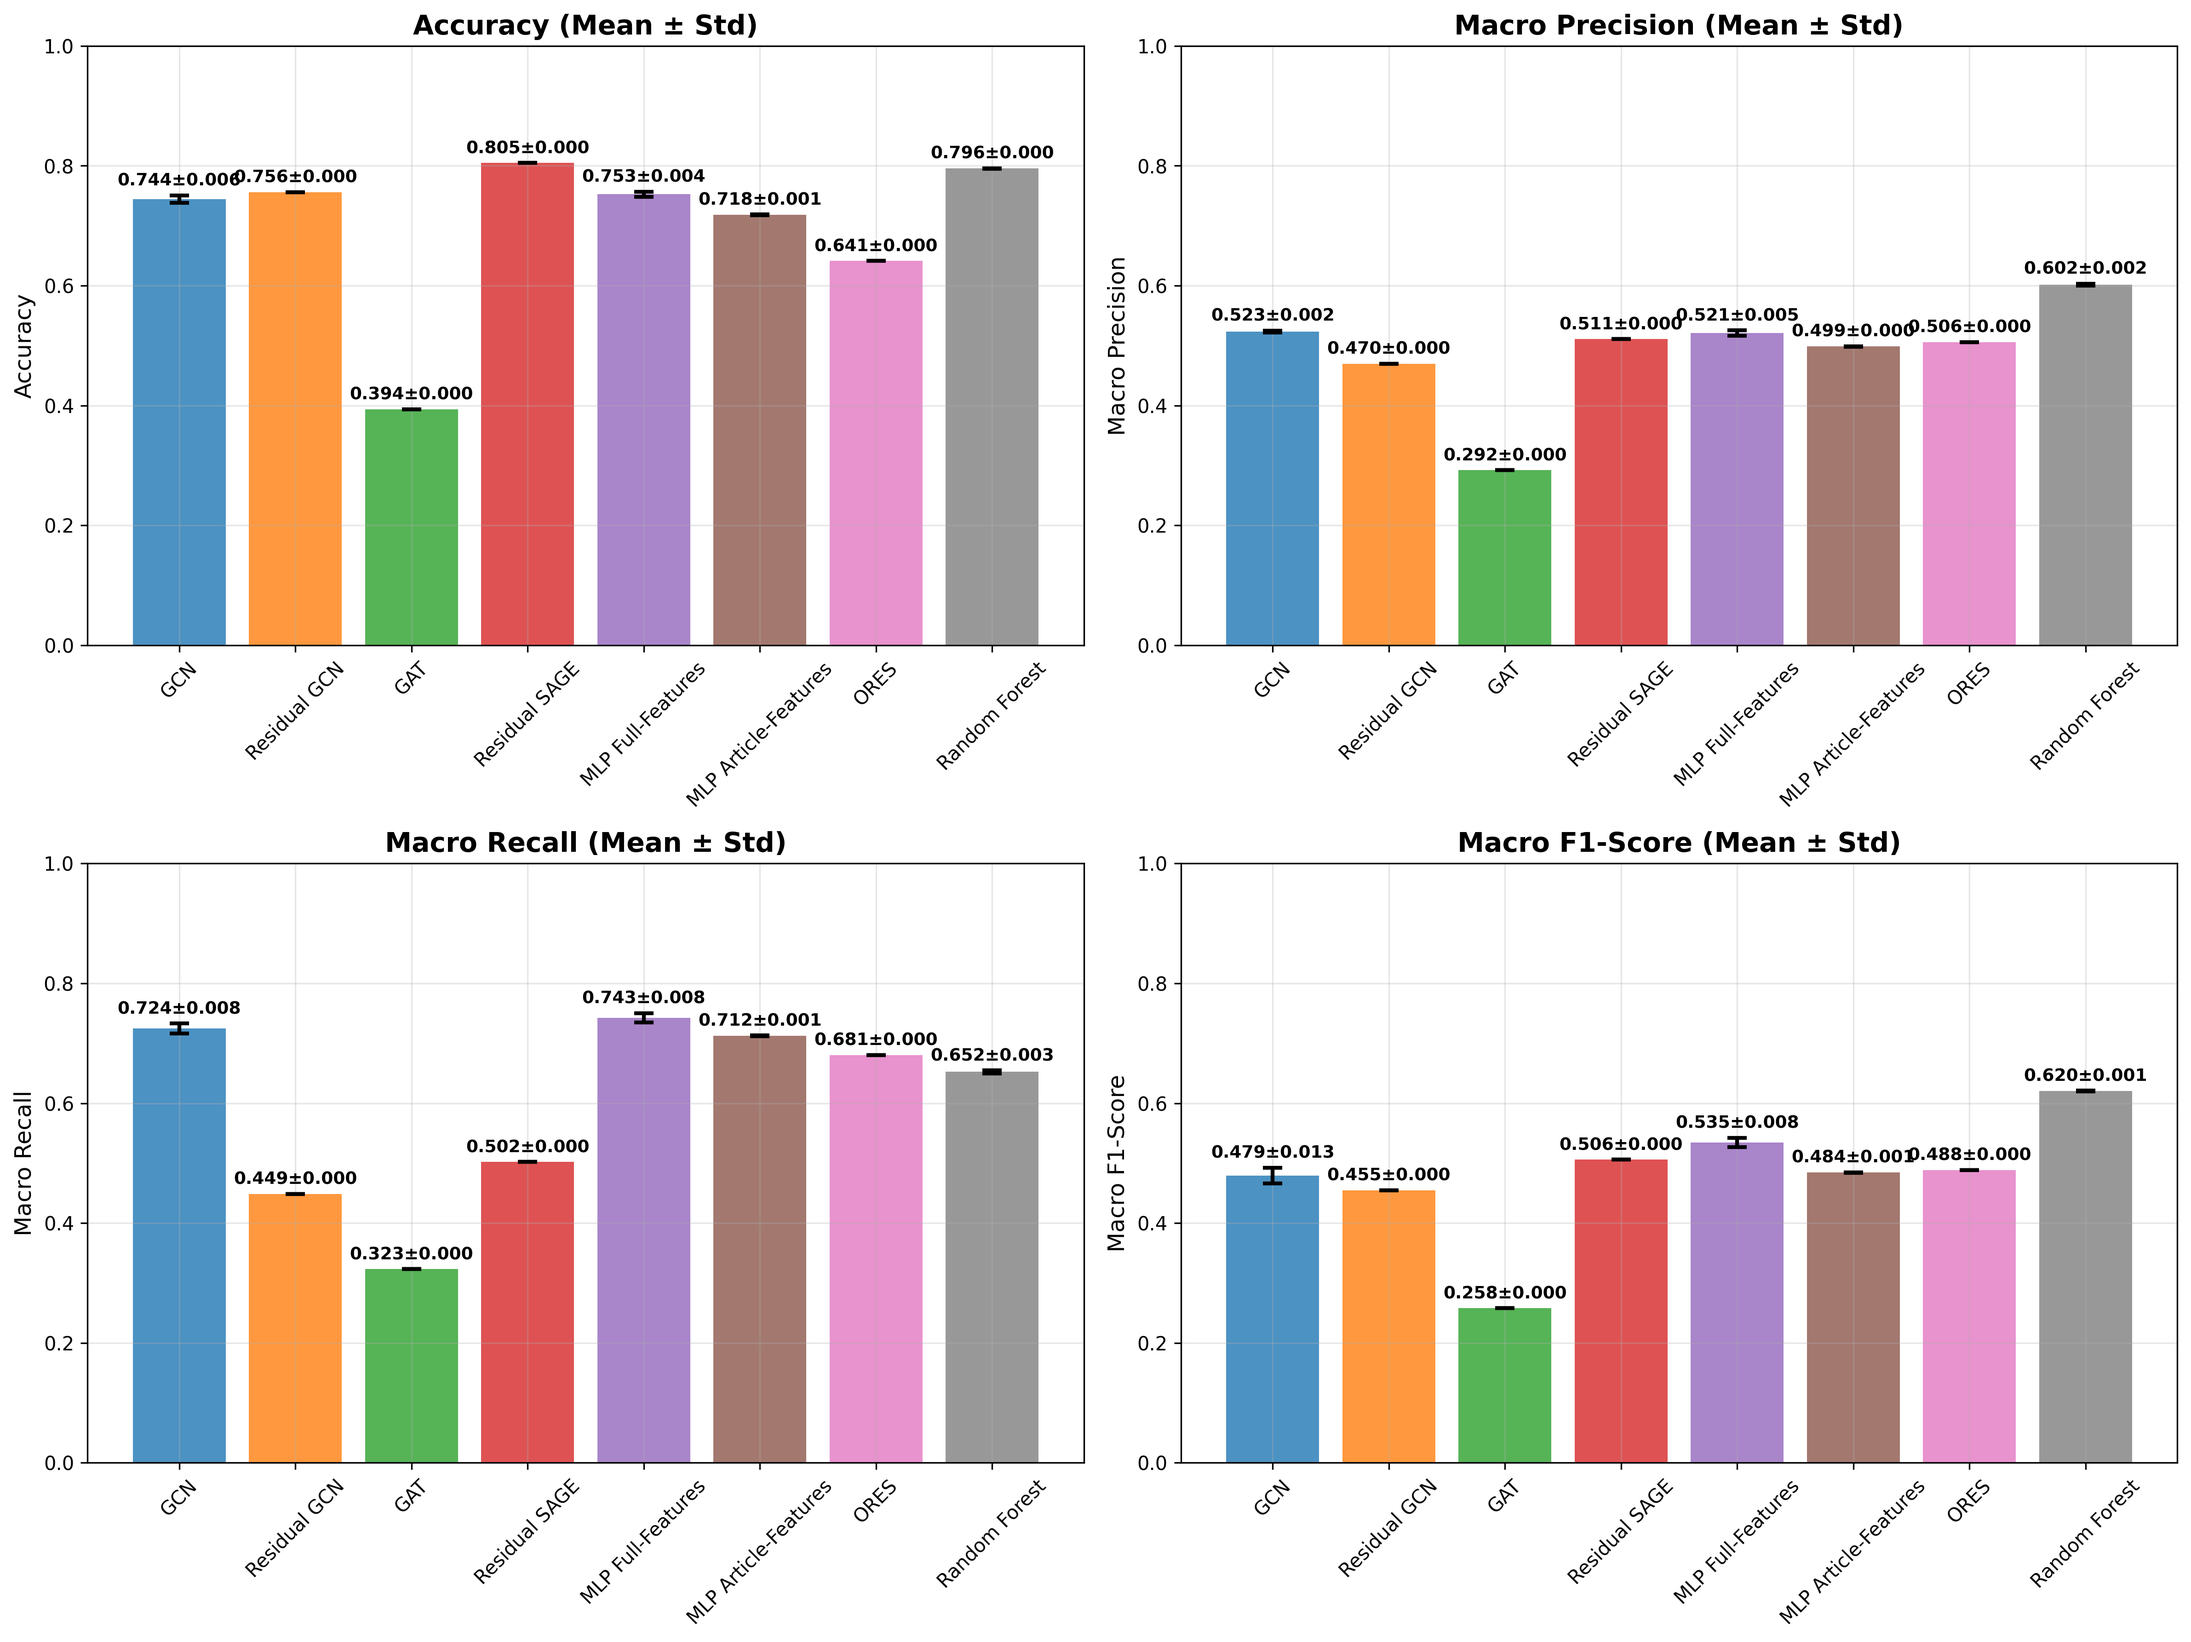
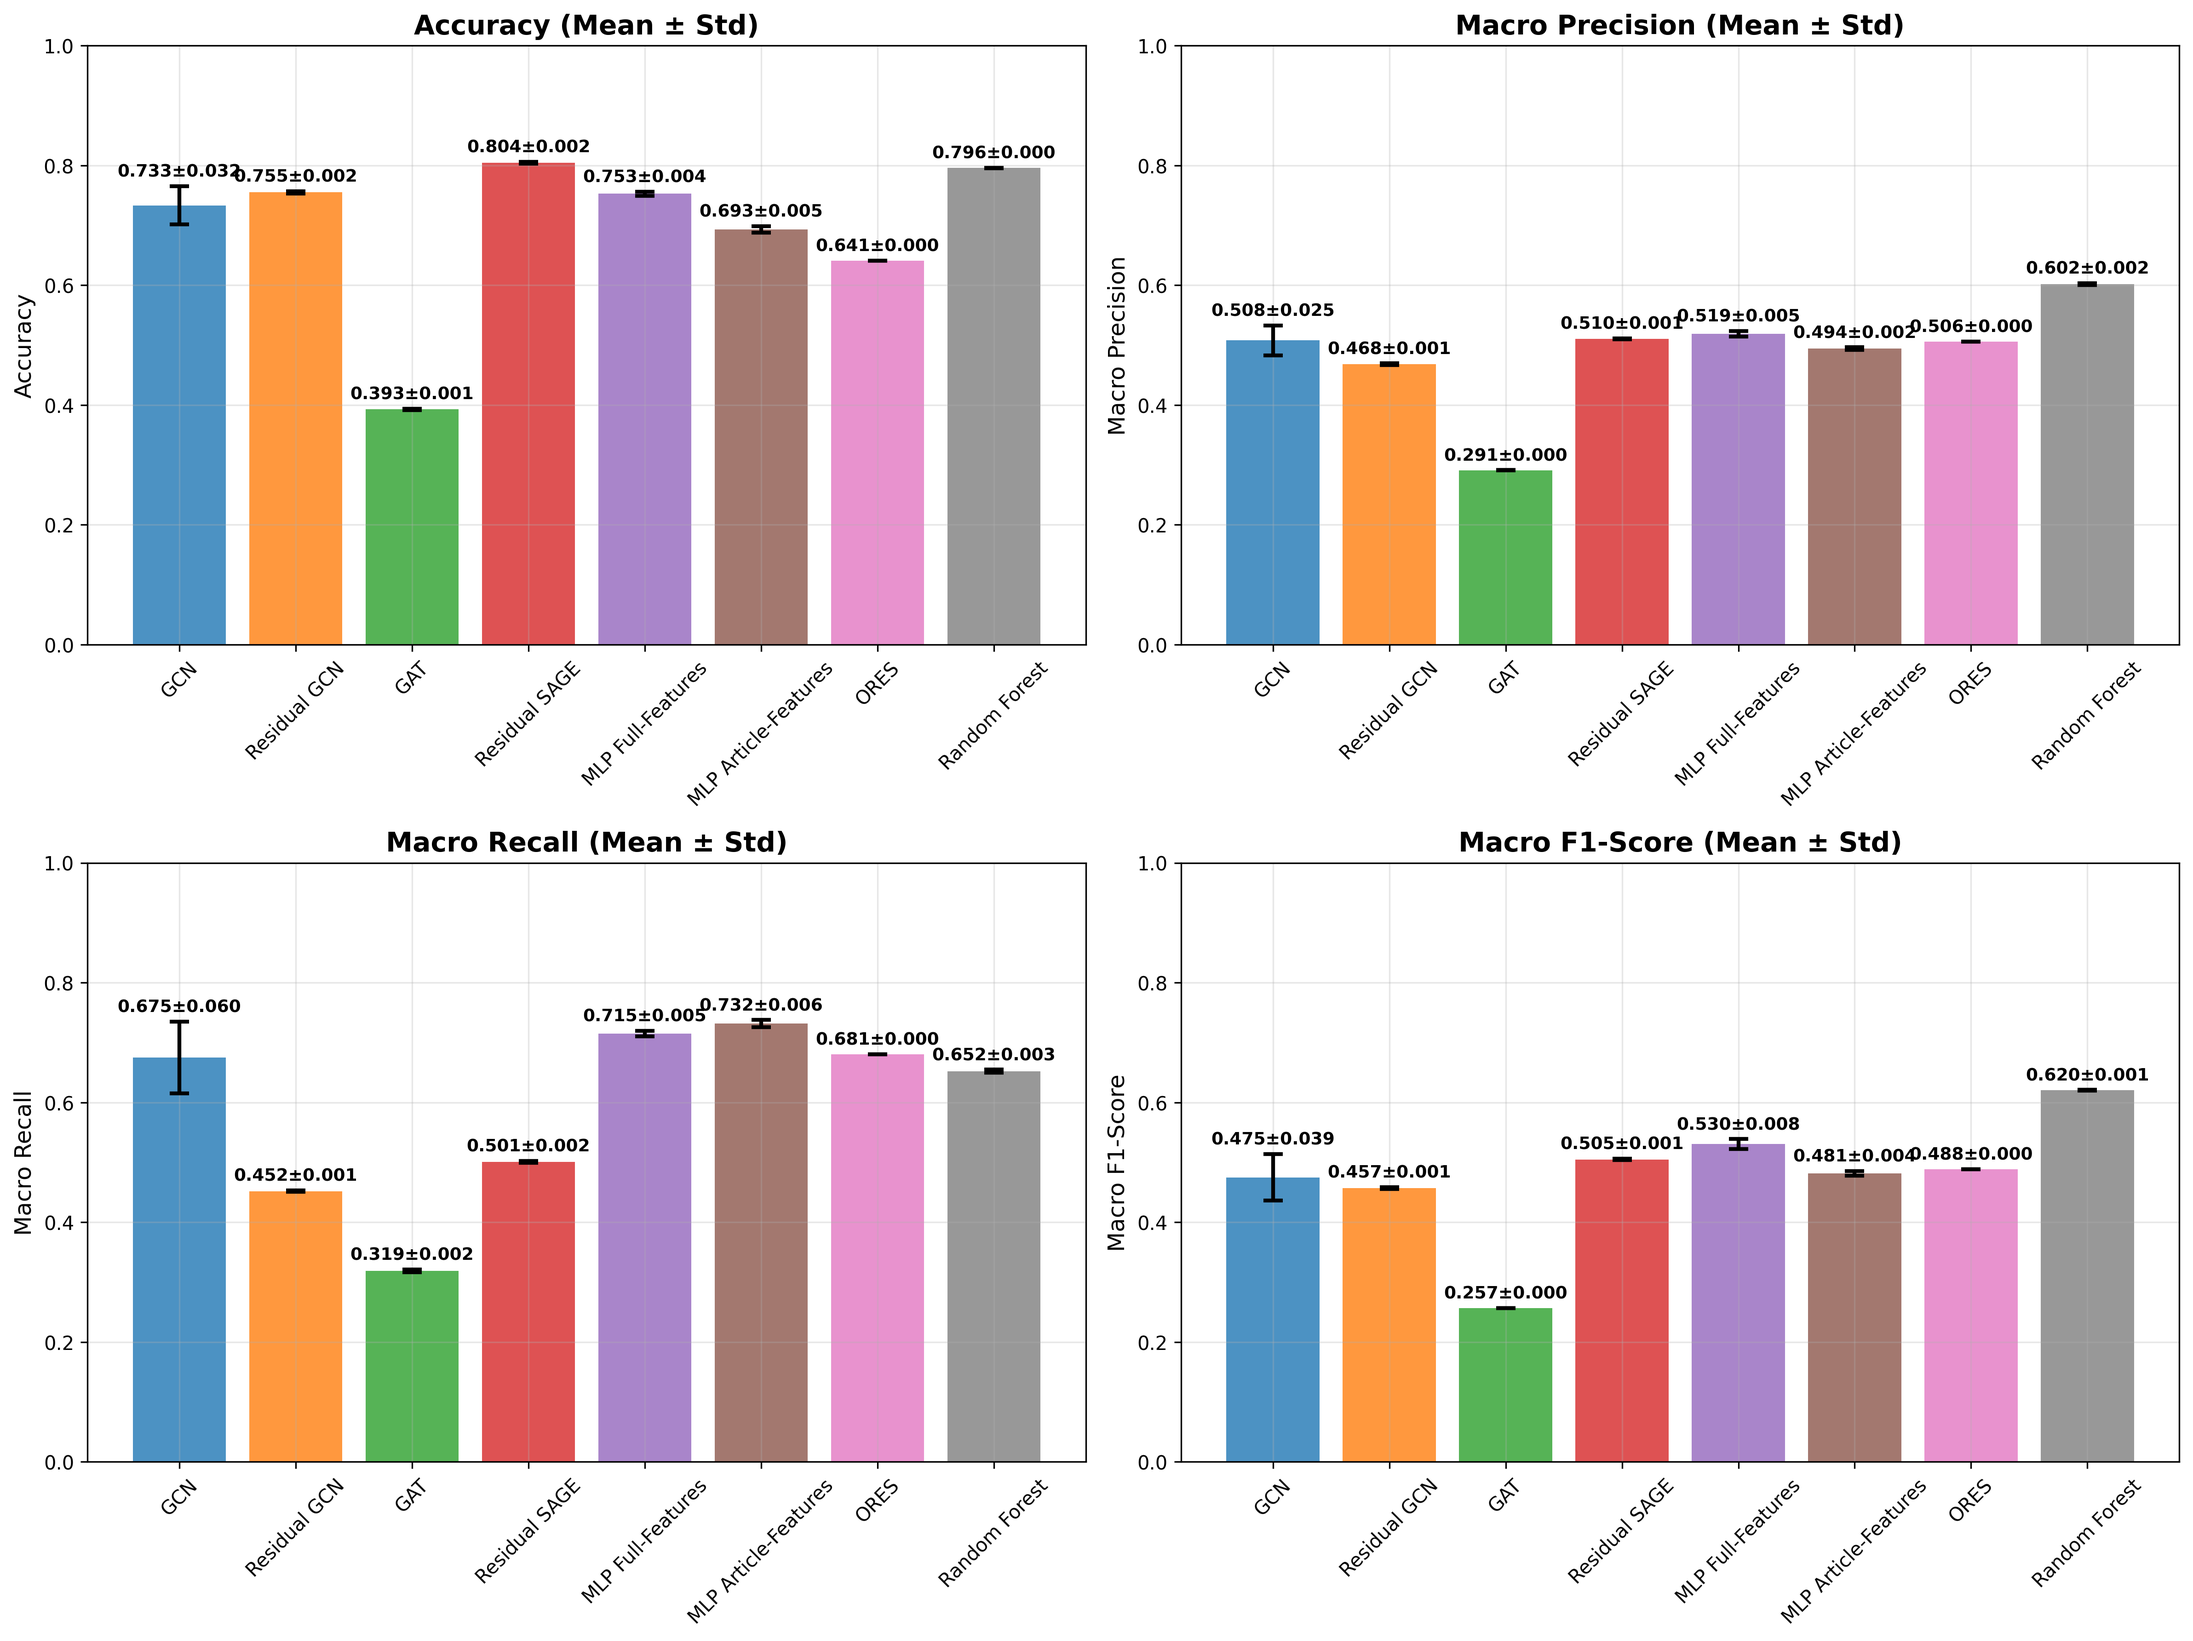
Fix NaN handling and update results

diff --git a/1_CodePipeline/2_GNN_Training/utils/evaluate_gnn_model.py b/1_CodePipeline/2_GNN_Training/utils/evaluate_gnn_model.py
@@ -27,11 +27,27 @@ def evaluate_gnn_model(data, model, mask_type='val', device=None):
         if isinstance(outputs, tuple):
             outputs = outputs[0]  # If the model returns a tuple, select only the logits
 
-        _, predicted = torch.max(outputs[mask], 1)  # Get predicted classes for masked nodes
+        # Check for NaN values in outputs before prediction
+        masked_outputs = outputs[mask]
+        if torch.isnan(masked_outputs).any():
+            print(f"Warning: {torch.isnan(masked_outputs).sum().item()} NaN values found in model outputs")
+            # Replace NaN with very negative values to avoid affecting argmax
+            masked_outputs = torch.where(torch.isnan(masked_outputs), torch.tensor(-1e9, device=masked_outputs.device), masked_outputs)
+        
+        _, predicted = torch.max(masked_outputs, 1)  # Get predicted classes for masked nodes
 
         # Convert to numpy for sklearn metrics
         y_preds = predicted.cpu().numpy()
         y_true = data.y[mask].cpu().numpy()
+        
+        # Final check for NaN in predictions
+        if np.isnan(y_preds).any():
+            print(f"Error: {np.isnan(y_preds).sum()} NaN values still present in predictions")
+            # Remove samples with NaN predictions
+            valid_mask = ~np.isnan(y_preds)
+            y_preds = y_preds[valid_mask]
+            y_true = y_true[valid_mask]
+            print(f"Removed {(~valid_mask).sum()} samples with NaN predictions")
 
     # Calculate accuracy and metrics
     accuracy = accuracy_score(y_true, y_preds)
